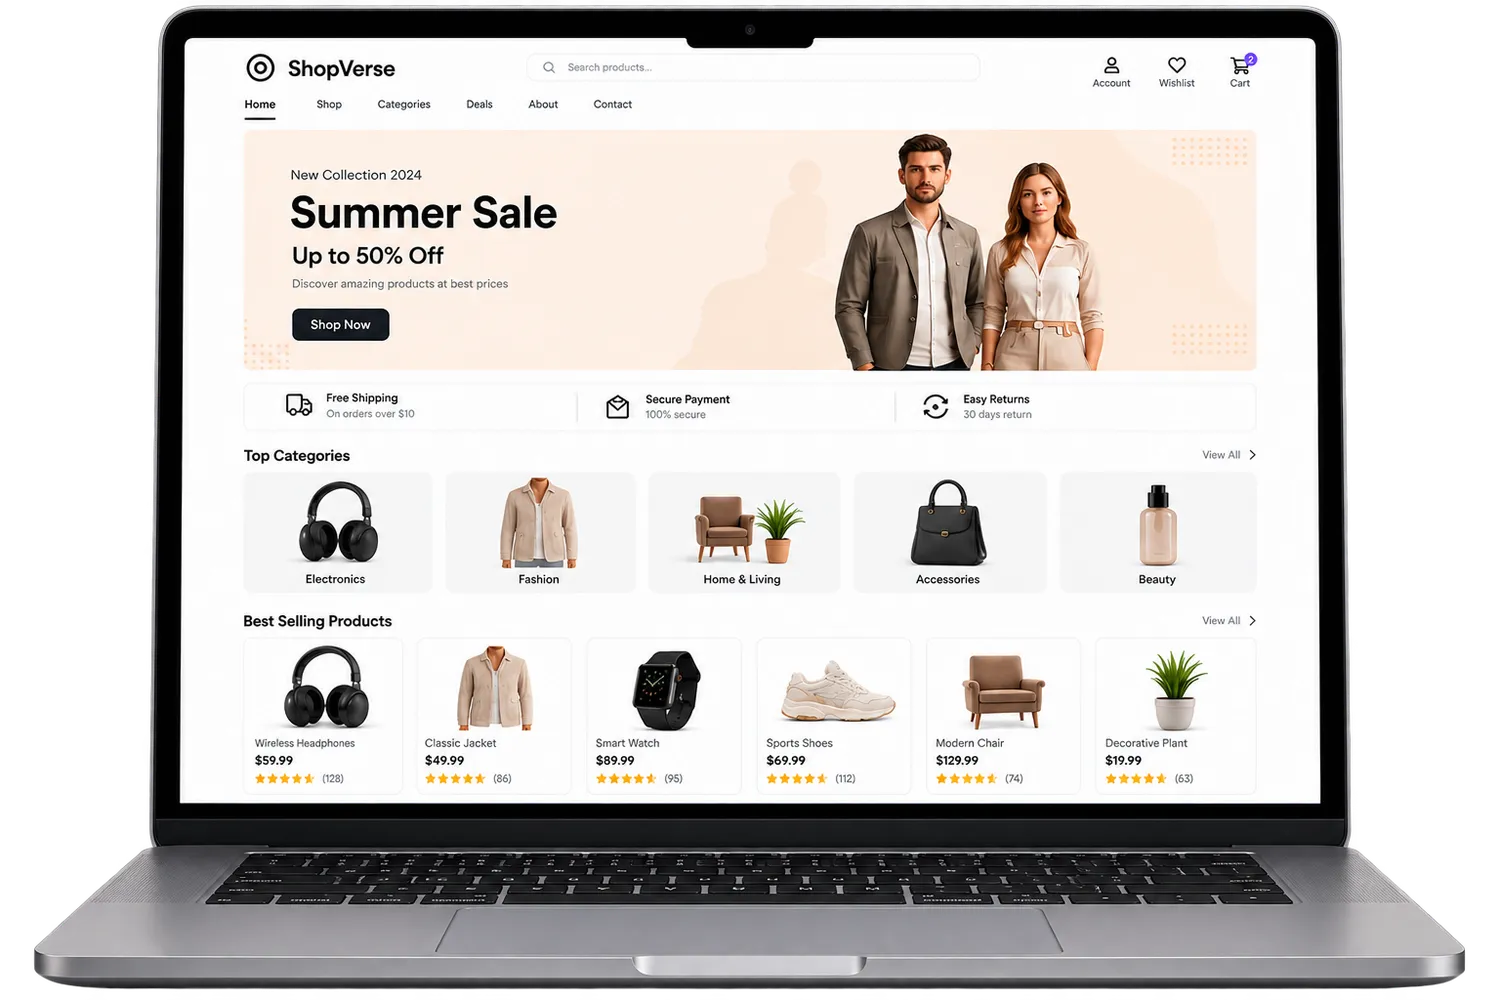
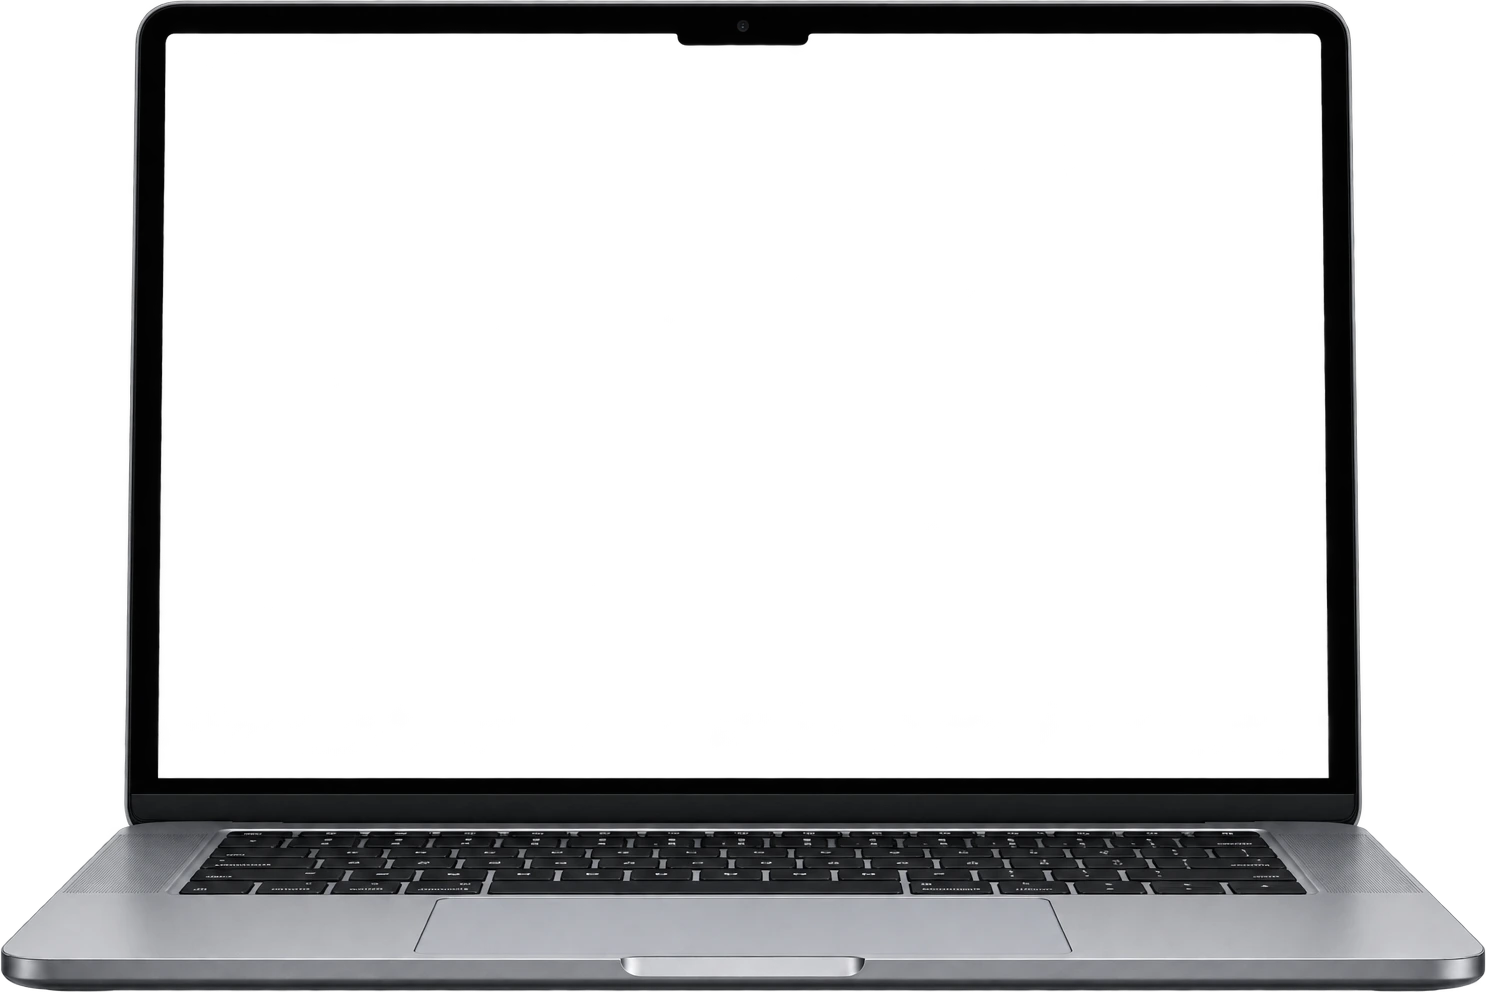
Polish hero mockups: sharp layered device screens with synced opacity crossfade and smooth phone float

diff --git a/src/components/Hero/ShopVerseMockup.jsx b/src/components/Hero/ShopVerseMockup.jsx
@@ -1,14 +1,83 @@
+import { useEffect, useState } from 'react'
 import laptopImg from '../../../assets/web/hero-laptop.webp'
 import phoneImg from '../../../assets/web/hero-phone.webp'
+import desktopScreenImg from '../../../assets/web/site-desktop.webp'
+import desktopScreen2Img from '../../../assets/web/site-desktop-2.webp'
+import mobileScreenImg from '../../../assets/web/site-mobile.webp'
+import mobileScreen2Img from '../../../assets/web/site-mobile-2.webp'
 
 /**
- * ShopVerseMockup — real device renders (supplied images) shown as a
- * laptop + phone composition. Both images are transparent WebP exports
- * of the supplied PNG renders, so the warm cream page and soft glow show
- * through. The wrapper width, glow and the phone float/overlap are
- * preserved from the original hand-built mockup.
+ * Display regions (as % of each device frame canvas) where the website page
+ * screenshots are shown. Each frame image already has a transparent display
+ * area (a "hole") with the opaque bezel/notch/body drawn around it, so the
+ * screenshots are placed BEHIND the frame and simply show through the hole —
+ * the physical device stays completely unchanged and always on top.
  */
+const LAPTOP_SCREEN = {
+  left: '10.7%',
+  top: '3.43%',
+  width: '78.67%',
+  height: '75%',
+}
+
+const PHONE_SCREEN = {
+  left: '6.13%',
+  top: '2.5%',
+  width: '87.74%',
+  height: '94.87%',
+}
+
+const DESKTOP_PAGES = [desktopScreenImg, desktopScreen2Img]
+const MOBILE_PAGES = [mobileScreenImg, mobileScreen2Img]
+
+/** How long each page is fully shown (ms). */
+const SHOW_MS = 4600
+/** Crossfade duration — the only thing that animates is opacity. */
+const FADE_MS = 700
+
+/**
+ * Crossfading screen content for one device.
+ *
+ * All pages stay MOUNTED, stacked at the exact same fixed geometry inside the
+ * static, clipped screen viewport. Only each image's `opacity` changes, so the
+ * screenshots are never scaled, moved, filtered or GPU-composited — they stay
+ * razor sharp before, during and after every transition.
+ */
+function ScreenSlides({ pages, region, active }) {
+  return (
+    <div
+      aria-hidden="true"
+      className="pointer-events-none absolute overflow-hidden"
+      style={{ left: region.left, top: region.top, width: region.width, height: region.height }}
+    >
+      {pages.map((src, i) => (
+        <img
+          key={src}
+          src={src}
+          alt=""
+          draggable={false}
+          className={`absolute inset-0 h-full w-full select-none object-cover object-top transition-opacity ease-in-out ${
+            i === active ? 'opacity-100' : 'opacity-0'
+          }`}
+          style={{ transitionDuration: `${FADE_MS}ms` }}
+        />
+      ))}
+    </div>
+  )
+}
+
 export default function ShopVerseMockup() {
+  const [slide, setSlide] = useState(0)
+
+  // Advance the shared slide counter; both devices crossfade in sync.
+  // Respects prefers-reduced-motion (stays on the first page).
+  useEffect(() => {
+    if (typeof window === 'undefined') return
+    if (window.matchMedia('(prefers-reduced-motion: reduce)').matches) return
+    const id = setInterval(() => setSlide((s) => s + 1), SHOW_MS)
+    return () => clearInterval(id)
+  }, [])
+
   return (
     <div className="relative mx-auto w-full max-w-[520px] select-none">
       {/* Soft warm glow behind the devices */}
@@ -17,22 +86,57 @@ export default function ShopVerseMockup() {
         className="absolute -inset-10 rounded-full bg-[radial-gradient(circle_at_60%_40%,rgba(200,138,8,0.16),transparent_65%)] blur-2xl"
       />
 
-      {/* Laptop render — aligned straight */}
+      {/* Laptop — STATIC device; screen content crossfades behind the frame */}
       <div className="relative">
+        {/* Soft floor/contact shadows under the laptop (radial falloff) */}
+        <div
+          aria-hidden="true"
+          className="absolute -bottom-[16px] left-[7%] right-[7%] h-[40px] rounded-[50%] bg-[radial-gradient(50%_50%_at_50%_50%,rgba(16,24,40,0.14)_0%,rgba(16,24,40,0)_72%)]"
+        />
+        <div
+          aria-hidden="true"
+          className="absolute -bottom-[5px] left-[17%] right-[17%] h-[22px] rounded-[50%] bg-[radial-gradient(50%_50%_at_50%_50%,rgba(16,24,40,0.24)_0%,rgba(16,24,40,0)_70%)]"
+        />
+
+        <ScreenSlides
+          pages={DESKTOP_PAGES}
+          region={LAPTOP_SCREEN}
+          active={slide % DESKTOP_PAGES.length}
+        />
         <img
           src={laptopImg}
-          alt="ShopVerse e-commerce storefront previewed on a laptop"
-          className="relative block w-full drop-shadow-[0_22px_40px_rgba(16,24,40,0.18)]"
+          alt="Responsive web pages previewed on a laptop"
+          className="relative block w-full"
         />
       </div>
 
-      {/* Phone render overlay */}
-      <div className="absolute -bottom-12 -right-2 w-[128px] animate-float sm:-right-4 sm:w-[148px]">
-        <img
-          src={phoneImg}
-          alt="Responsive ShopVerse storefront previewed on a smartphone"
-          className="block w-full drop-shadow-[0_16px_28px_rgba(16,24,40,0.22)]"
-        />
+      {/* Phone overlay — gently floats up/down. The whole phone (frame +
+          crossfading screen) is promoted to a single GPU layer via
+          `will-change-transform`, so the motion is smooth and the screenshots
+          never blur (their content only animates opacity). */}
+      <div className="absolute -bottom-12 -right-2 w-[128px] animate-float will-change-transform sm:-right-4 sm:w-[148px]">
+        <div className="relative">
+          {/* Soft floor/contact shadows under the phone (outer glow + tight core) */}
+          <div
+            aria-hidden="true"
+            className="absolute inset-x-[-6px] -bottom-[12px] mx-auto h-[26px] rounded-[50%] bg-[radial-gradient(50%_50%_at_50%_50%,rgba(16,24,40,0.16)_0%,rgba(16,24,40,0)_72%)]"
+          />
+          <div
+            aria-hidden="true"
+            className="absolute inset-x-[6%] -bottom-[7px] mx-auto h-[16px] rounded-[50%] bg-[radial-gradient(50%_50%_at_50%_50%,rgba(16,24,40,0.30)_0%,rgba(16,24,40,0)_70%)]"
+          />
+
+          <ScreenSlides
+            pages={MOBILE_PAGES}
+            region={PHONE_SCREEN}
+            active={slide % MOBILE_PAGES.length}
+          />
+          <img
+            src={phoneImg}
+            alt="Responsive web pages previewed on a smartphone"
+            className="relative block w-full"
+          />
+        </div>
       </div>
     </div>
   )

diff --git a/src/index.css b/src/index.css
@@ -125,22 +125,44 @@ body {
 }
 
 /* ---------------- Reusable utilities ---------------- */
+/* Fluid site container with a proper, per-screen safe area.
+   Phones keep a modest content-first gutter, tablets a moderate one,
+   and desktops a generous gutter that scales with the screen. On large
+   desktop monitors the side margin grows proportionally and then
+   plateaus at a ceiling, so very wide/ultra-wide displays fill
+   naturally instead of showing huge empty side areas. */
 .container-site {
   width: 100%;
   max-width: 1200px;
   margin-inline: auto;
-  padding-inline: 24px;
+  padding-inline: 48px;
+}
+
+@media (width >= 80rem) {
+  .container-site {
+    /* Proportional one-side safe zone — doubled vs the original.
+       It keeps growing with the screen until a generous ceiling, so
+       very wide monitors never show huge empty side areas. */
+    --safe-x: clamp(3.5rem, 9.5vw, 13rem);
+    /* Scale up to fill bigger monitors smoothly. Never narrower than
+       the original 1200px column on smaller laptops. No hard content
+       cap: once the safe margin reaches its ceiling the content keeps
+       filling wider displays, keeping the layout balanced. */
+    max-width: max(1200px, calc(100% - var(--safe-x) * 2));
+  }
 }
 
 @media (width < 64rem) {
   .container-site {
-    padding-inline: 20px;
+    /* Tablet — natural, moderate gutter */
+    padding-inline: 32px;
   }
 }
 
 @media (width < 40rem) {
   .container-site {
-    padding-inline: 16px;
+    /* Phone — modest, content-first gutter */
+    padding-inline: 20px;
   }
 }
 
